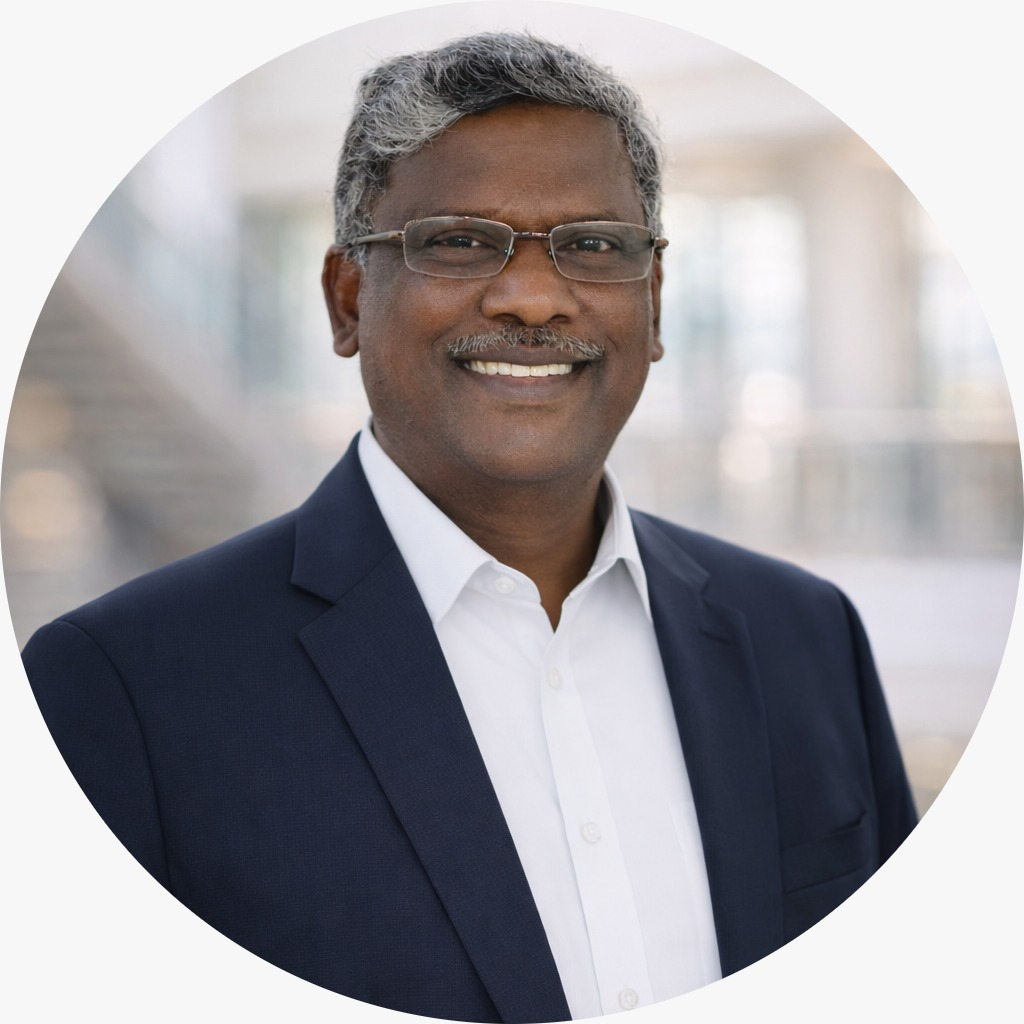
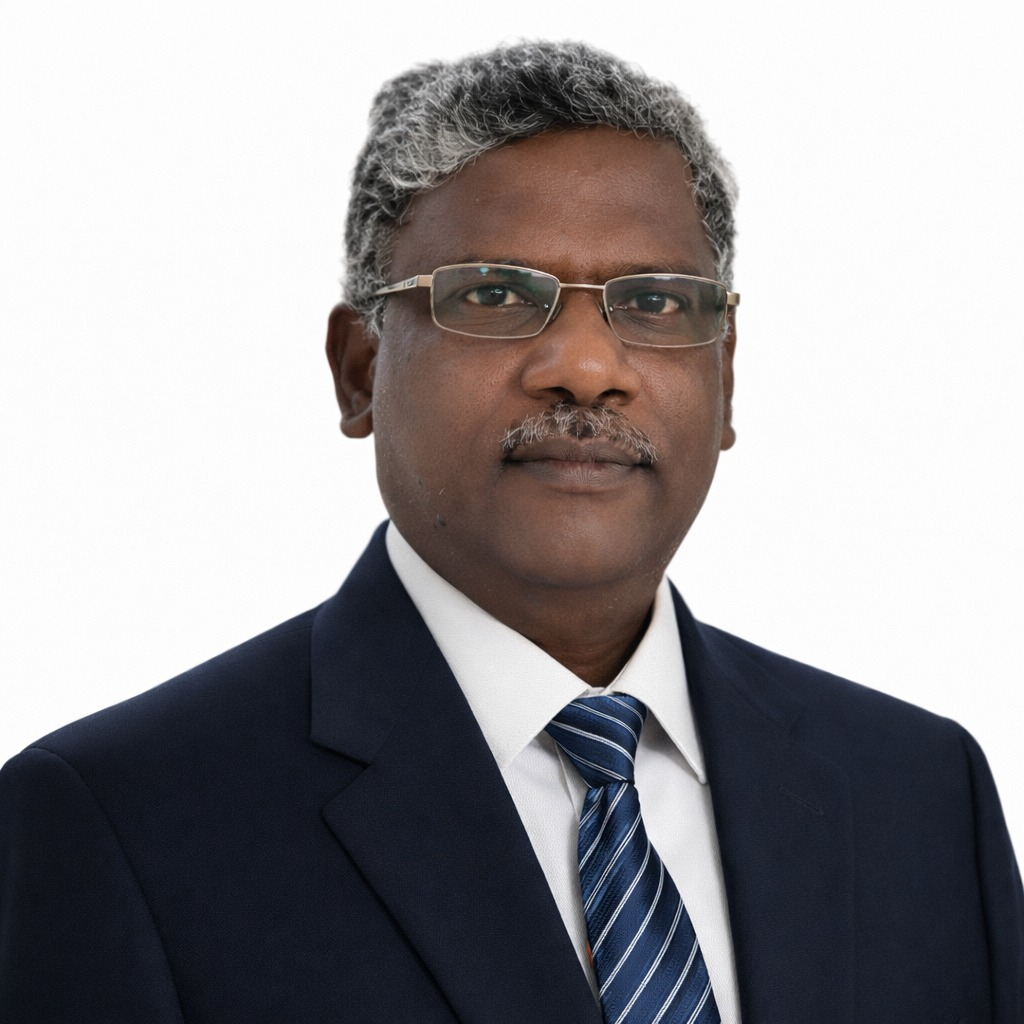
images added succesfully

diff --git a/src/pages/Society.jsx b/src/pages/Society.jsx
@@ -10,7 +10,7 @@ const Society = () => {
     const faculty = {
         name: "Dr. I. Jayakaran Amalraj",
         role: "Faculty Advisor",
-        dept: "Department of Mathematics, SSN College of Engineering",
+        dept: "Department of Mathematics, SSNCE",
         bio: "Dr. I. Jayakaran Amalraj is an Associate Professor in the Department of Mathematics at SSN College of Engineering with over 28 years of teaching experience. He is dedicated to helping students deeply understand mathematical concepts rather than simply complete coursework. As Faculty In-Charge of the Mathematics Honor Society (MHS), he actively supports student-led initiatives and fosters a culture of academic rigor, curiosity, and integrity.",
         photo: "/images-club_members/ijk-sir-img.jpeg",
         linkedin: "https://linkedin.com",
@@ -55,10 +55,10 @@ const Society = () => {
         },
         {
             name: "P Nethraa",
-            role: "Head of Event Coordination",
+            role: "Joint Secretary",
             dept: "Computer Science",
             year: "2028",
-            bio: "My curiosity to learn and constantly challenge myself has been one of the biggest drivers of my life — whether I'm solving a complex math problem or pushing my limits on the basketball court. Nethraa leads event planning and execution for all MHS activities.",
+            bio: "Hey, this is Nethraa! My curiosity to learn and constantly challenge myself has been one of the biggest drivers of my life — whether I'm solving a complex math problem or pushing my limits on the basketball court.",
             photo: "/images-club_members/nethra-image.jpeg",
             linkedin: "https://www.linkedin.com/in/nethraa-p-4a1405334/",
             email: "[email redacted]"
@@ -69,7 +69,7 @@ const Society = () => {
             dept: "Information Technology",
             year: "2028",
             bio: "A passionate tech enthusiast with a strong interest in web development and a deep curiosity for all things related to computers and technology. Driven by an innate desire to build and implement projects, he finds genuine joy in turning ideas into successful outcomes. His reliability and sense of responsibility help strengthen and unify the team.",
-            photo: "https://ui-avatars.com/api/?name=Balamuthukrishnan&background=0d0d1a&color=a78bfa&size=300&bold=true",
+            photo: "/images-club_members/bala-image.jpeg",
             linkedin: "https://www.linkedin.com/in/bala-muthu-krishnan",
             email: "[email redacted]"
         },
@@ -90,9 +90,9 @@ const Society = () => {
         {
             name: "Yogesh",
             role: "Treasurer",
-            dept: "Mathematics",
+            dept: "Biomedical Engineering",
             year: "2028",
-            bio: "Manages the society's financial operations including budget planning, expense tracking, and fund allocation, ensuring the smooth financial functioning of all MHS activities and events.",
+            bio: "Yogesh is a Biomedical Engineering undergraduate at SSN College of Engineering and serves as Treasurer of the Mathematics Honor Society. Outside of his academic work, Yogesh enjoys cycling and trekking, and he loves visiting new places and exploring more people.",
             photo: "/images-club_members/yogesh-image.jpeg",
             linkedin: "https://linkedin.com",
             email: "[email redacted]"
@@ -110,10 +110,10 @@ const Society = () => {
         {
             name: "Boobesh",
             role: "Head of Design",
-            dept: "Mathematics",
+            dept: "SSN College of Engineering",
             year: "2028",
             bio: "Creative mind at the helm of MHS visual identity. Boobesh leads the design initiatives, crafting compelling visuals and maintaining the aesthetic coherence of all society materials, branding, and event collateral.",
-            photo: "https://ui-avatars.com/api/?name=Boobesh&background=0d0d1a&color=a78bfa&size=300&bold=true",
+            photo: "/images-club_members/boobesh-image.jpeg",
             linkedin: "https://linkedin.com",
             email: "[email redacted]"
         },

diff --git a/src/components/MemberCard.jsx b/src/components/MemberCard.jsx
@@ -22,11 +22,6 @@ const MemberCard = ({ member, onClick }) => (
             <div className="member-photo-mini-container">
                 <img src={member.photo} alt={member.name} className="member-photo-mini" />
                 <div className="member-status-node" title="Verified Scholar"></div>
-                <div className="card-logic-icon">
-                    <svg viewBox="0 0 24 24" width="14" height="14" fill="none" stroke="currentColor" strokeWidth="2">
-                        <path d="M3 3h18v18H3z M9 9l6 6 M15 9l-6 6" />
-                    </svg>
-                </div>
             </div>
             <div className="member-info-mini">
                 <h4 className="member-name-mini">{member.name}</h4>